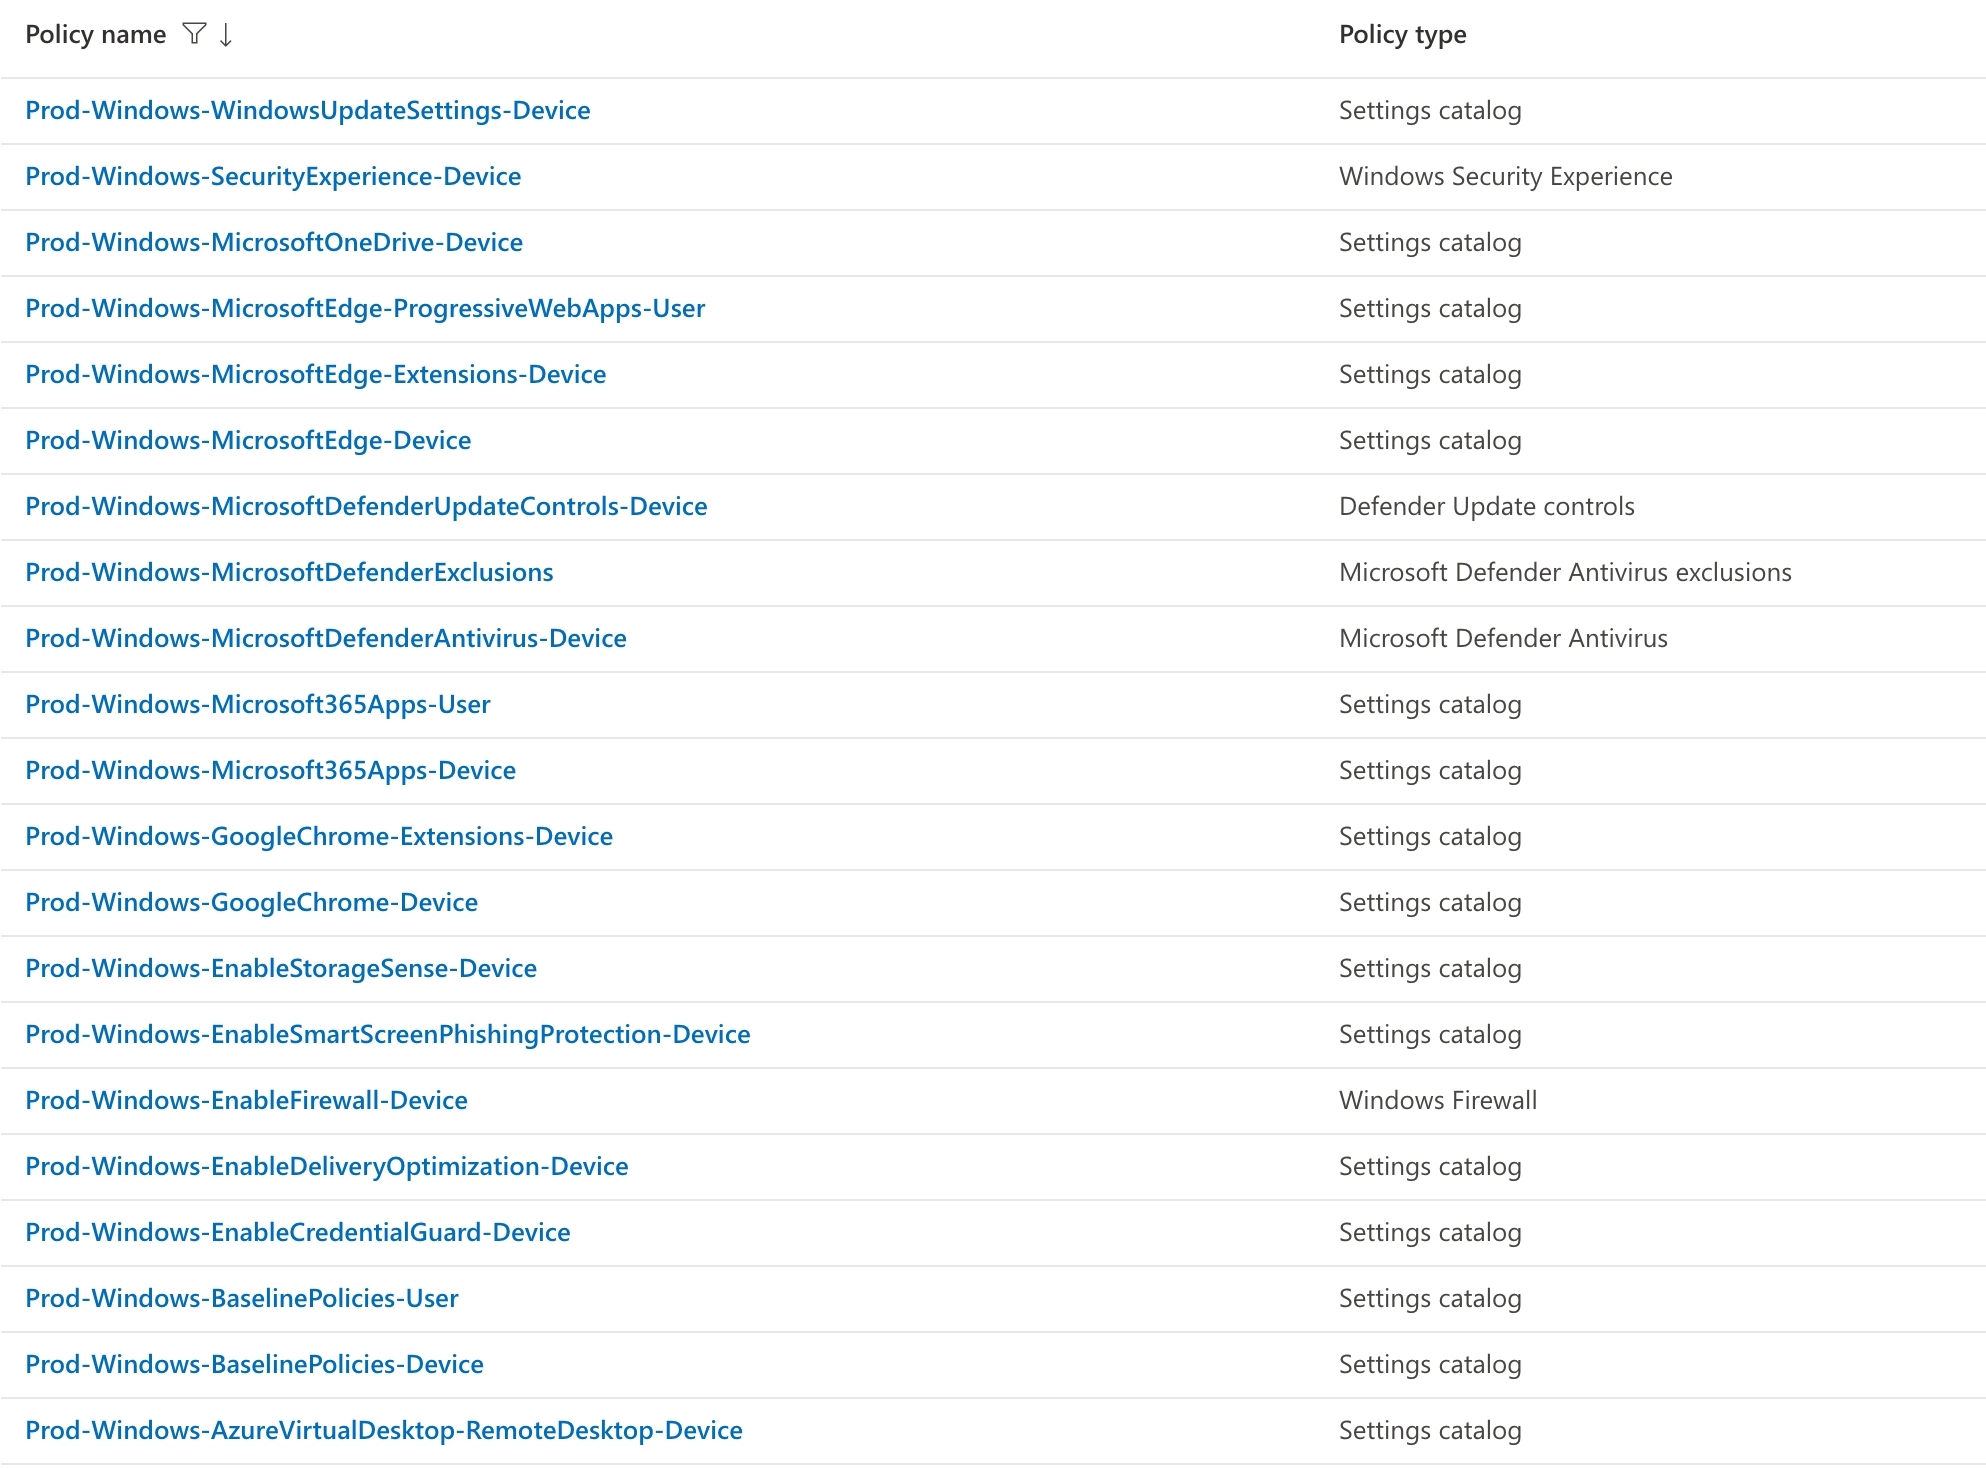
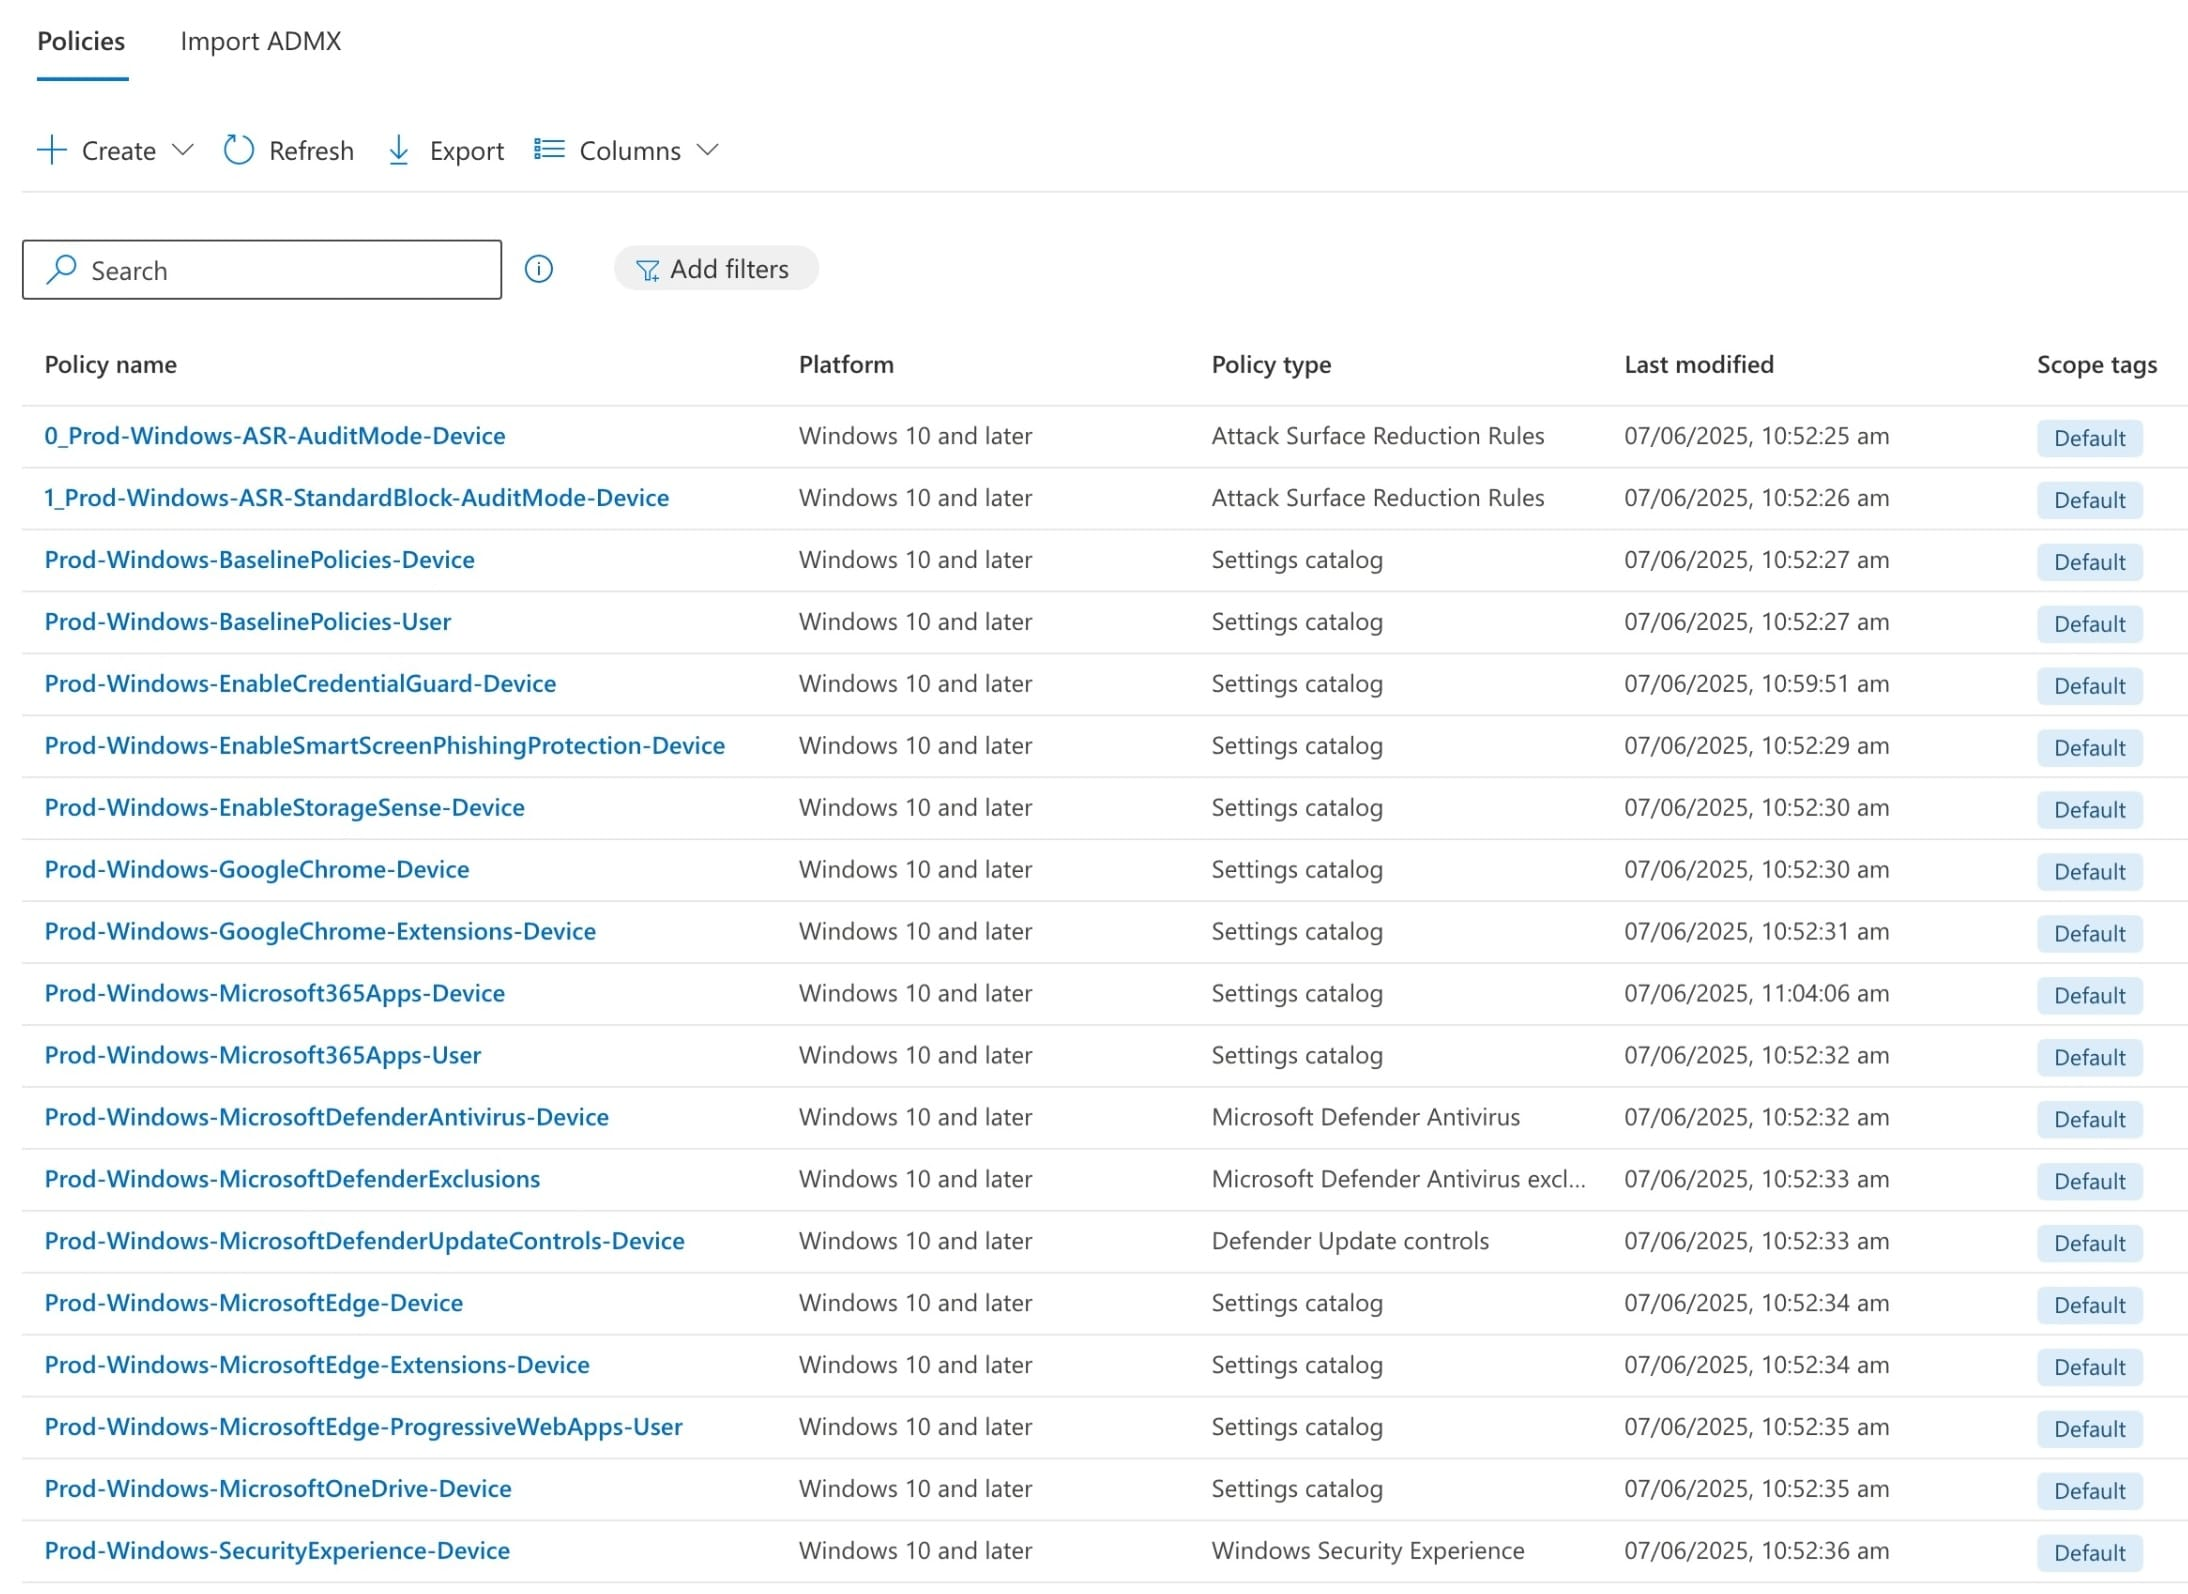
Update README

diff --git a/README.md b/README.md
@@ -2,4 +2,18 @@
 
 Microsoft Intune baseline configurations.
 
+## windows
+
+Compliance policies and device configuration profiles for core Windows scenarios including Windows PCs, Windows 365 and Azure Virtual Desktop. Covers basic Windows settings, Microsoft Edge and the Microsoft 365 Apps to deliver an enterprise end-user experience.
+
 ![](img/policies.jpeg)
+
+## windows-update
+
+Policies to manage Windows feature updates, along with Microsoft Edge and the Microsoft 365 Apps. Support the use of Windows Autopatch.
+
+![](img/feature-updates.jpeg)
+
+![](img/update-rings.jpeg)
+
+![](img/update-policies.jpeg)
